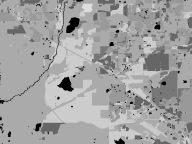
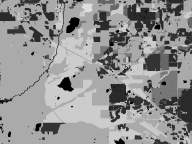
sim: burn Boulder County's suburbs as irrigated, not as grass
osm_to_fuel.py takes per-scenario class weights; marshall's residential and commercial drop to 0.25 and 0.3, while paradise's forested lots keep theirs (its replay needs residential at 0.6 or more). The Marshall replay's best final perimeter goes from IoU 0.19 at 2.7x the area to IoU 0.38 at 0.84x. Closes #144.

diff --git a/tools/osm_to_fuel.py b/tools/osm_to_fuel.py
@@ -66,6 +66,15 @@ CLASSES = [
     ("water", 0.0, {"natural": ["water"], "landuse": ["reservoir", "basin"], "waterway": ["riverbank"]}),
     ("river", 0.0, {"waterway": ["river"]}),  # lines, drawn RIVER_WIDTH_M wide
 ]
+# Per-scenario weights that replace CLASSES' own, where the same OSM class
+# burns differently. Paradise's residential areas are pine-needle forest lots
+# that the Camp Fire burned through (its replay needs residential at 0.6 or
+# more). Superior and Louisville are irrigated lawns, streets and parking that
+# stopped the Marshall Fire: at 0.9 the replay burned 2.7x the real area, at
+# these weights 1.5x, with outline IoU from 0.19 to 0.27 (#144).
+SCENARIO_WEIGHTS = {
+    "marshall": {"residential": 0.25, "commercial": 0.3},
+}
 # The PNG stores fuel / MAX_FUEL (sim/fire.py's white = 1.5x).
 MAX_FUEL = 1.5
 
@@ -200,7 +209,9 @@ def main():
 
     ss = SUPERSAMPLE
     classes = rasterize(elements, proj, ss)
-    lut = np.array([f for _, f, _ in CLASSES], np.float32)
+    over = SCENARIO_WEIGHTS.get(args.scenario, {})
+    weights = [over.get(name, f) for name, f, _ in CLASSES]
+    lut = np.array(weights, np.float32)
     fine = lut[classes]
     fuel = fine.reshape(proj.h, ss, proj.w, ss).mean(axis=(1, 3))
 
@@ -209,7 +220,7 @@ def main():
     print(f"Wrote {out.relative_to(REPO)} ({proj.w}x{proj.h}), mean fuel {fuel.mean():.2f}, "
           f"unburnable cells {(fuel == 0).sum()}")
     counts = np.bincount(classes.ravel(), minlength=len(CLASSES)) / classes.size
-    for (name, f, _), share in zip(CLASSES, counts):
+    for (name, _, _), f, share in zip(CLASSES, weights, counts):
         if share:
             print(f"  {name:12s} fuel {f:.1f}  {share:6.1%} of the map")
 

diff --git a/PLAN.md b/PLAN.md
@@ -255,7 +255,7 @@ The top recommendation's realized benefit fell from 985 to 708 (steady wind). It
 
 The known gap: the replay burns about 1.5–1.7x the real area, because flanks spread too wide. A higher `C2` (0.3–0.4) fits the perimeters better (IoU 0.67/0.79, area 1.27x/1.12x). But it also starves backing and flank spread at every wind: at 3–8 m/s fires came out under half the size, and instant attack contained them again. One extreme-wind event isn't enough evidence for that, so `C2` stays at 0.22 until a second fire (Marshall, #107) agrees.
 
-**Marshall Fire** (`cd engine && uv run python -m eval.marshall`, #107): a second real fire, grass into suburb under a steady 15–20 m/s westerly, scored against the NASA FEDS perimeter at 2.5 h and the WFIGS final perimeter. It has no timed per-house observations. It agrees with the Camp Fire: every top result of the search has `C2` 0.4, which matches the 2.5 h area (0.9–1.0x, IoU ~0.39), where 0.22 burns 4–5x too much. At every setting, though, the sim keeps running east through Louisville to the map edge where the real fire stopped, so the final perimeter is a fuel and structure question (suburbs burn like grass here), not a wind one. The open question is how to narrow strong-wind fires without starving moderate ones, for example a floor on backing and flank spread. Under the measured wind (`--measured`: NCAR Mesa Lab's 5-min record in the foothills, 11–19 m/s from about 245° through the afternoon, gusts to 40 m/s, #141) the verdict holds: 0.22 burns 1.9–4x the real 2.5 h area at any speed scale, while 0.3 at 0.8x the station's speed (IoU 0.46, area 1.09x) and 0.4 at 1x (IoU 0.41, area 0.85x) fit. NOAA's airport record downwind (KBJC) saw only 5–9 m/s from shifting directions, so the foothill station is the one that represents the fire's wind.
+**Marshall Fire** (`cd engine && uv run python -m eval.marshall`, #107): a second real fire, grass into suburb under a steady 15–20 m/s westerly, scored against the NASA FEDS perimeter at 2.5 h and the WFIGS final perimeter. It has no timed per-house observations. It agrees with the Camp Fire: every top result of the search has `C2` 0.4, which matches the 2.5 h area (0.9–1.0x, IoU ~0.39), where 0.22 burns 4–5x too much. At every setting, though, the sim keeps running east through Louisville to the map edge where the real fire stopped, so the final perimeter is a fuel and structure question (suburbs burn like grass here), not a wind one. The open question is how to narrow strong-wind fires without starving moderate ones, for example a floor on backing and flank spread. Under the measured wind (`--measured`: NCAR Mesa Lab's 5-min record in the foothills, 11–19 m/s from about 245° through the afternoon, gusts to 40 m/s, #141) the verdict holds: 0.22 burns 1.9–4x the real 2.5 h area at any speed scale, while 0.3 at 0.8x the station's speed (IoU 0.46, area 1.09x) and 0.4 at 1x (IoU 0.41, area 0.85x) fit. NOAA's airport record downwind (KBJC) saw only 5–9 m/s from shifting directions, so the foothill station is the one that represents the fire's wind. Suburban fuel is per scenario (#144): Boulder County's irrigated suburbs burn at residential 0.25 and commercial 0.3, while Paradise's forested lots keep 0.9 (its replay needs 0.6 or more). Under the measured wind that takes the best Marshall final perimeter from IoU 0.19 at 2.7x the area to IoU 0.38 at 0.84x (C2 0.4), and from 5.2x to 4.4x at today's 0.22. What's left is shape: the sim misses the real fire's north-west and south flanks, the flank spread that a backing/flank floor would add.
 
 - **Cell states:** `unburnable`, `fuel`, `burning`, `burned`. A burning cell burns for k ticks, giving the fire front visible thickness.
 - **Layers:** `heightmap` (→ slope), `fuel_type`, `fuel_density`, `suppression`, `roads`, `towns`.
